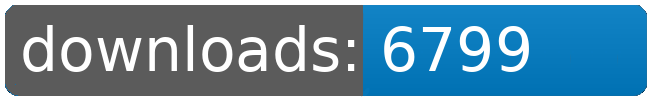
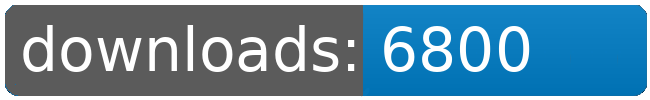
dl log written

Changed region(s): [[0.6462, 0.24, 0.8308, 0.72]]

diff --git a/README.md b/README.md
@@ -4,113 +4,113 @@
 <table>
 	<tr>
 		<td></td>
-		<td>2026-07-30</td>
 		<td>2026-07-31</td>
 		<td>2026-08-01</td>
 		<td>2026-08-02</td>
 		<td>2026-08-03</td>
 		<td>2026-08-04</td>
 		<td>2026-08-05</td>
+		<td>2026-08-06</td>
 		<td>today +</td>
 	</tr>
 	<tr>
 		<td>Bunsen.Burner</td>
-		<td>7802</td>
 		<td>7815</td>
 		<td>7830</td>
 		<td>7844</td>
 		<td>7854</td>
 		<td>7862</td>
 		<td>7883</td>
-		<td>+ 21</td>
+		<td>7883</td>
+		<td></td>
 	</tr>
 	<tr>
 		<td>Factory.Outlets</td>
-		<td>6892</td>
 		<td>6906</td>
 		<td>6922</td>
 		<td>6935</td>
 		<td>6943</td>
 		<td>6953</td>
 		<td>6974</td>
-		<td>+ 21</td>
+		<td>6974</td>
+		<td></td>
 	</tr>
 	<tr>
 		<td>Fundamental.Outfit.Expansion</td>
-		<td>8200</td>
 		<td>8217</td>
 		<td>8234</td>
 		<td>8249</td>
 		<td>8259</td>
 		<td>8270</td>
 		<td>8293</td>
-		<td>+ 23</td>
+		<td>8294</td>
+		<td>+ 1</td>
 	</tr>
 	<tr>
 		<td>Jaws</td>
-		<td>6721</td>
 		<td>6735</td>
 		<td>6750</td>
 		<td>6763</td>
 		<td>6770</td>
 		<td>6779</td>
 		<td>6799</td>
-		<td>+ 20</td>
+		<td>6800</td>
+		<td>+ 1</td>
 	</tr>
 	<tr>
 		<td>Korunak.Defense.Drones</td>
-		<td>6940</td>
 		<td>6954</td>
 		<td>6968</td>
 		<td>6981</td>
 		<td>6992</td>
 		<td>7002</td>
 		<td>7021</td>
-		<td>+ 19</td>
+		<td>7021</td>
+		<td></td>
 	</tr>
 	<tr>
 		<td>Louise.Conglomerate.Shipyards</td>
-		<td>7590</td>
 		<td>7605</td>
 		<td>7619</td>
 		<td>7633</td>
 		<td>7641</td>
 		<td>7653</td>
 		<td>7673</td>
-		<td>+ 20</td>
+		<td>7673</td>
+		<td></td>
 	</tr>
 	<tr>
 		<td>Sheragi.Rebirth.Redux</td>
-		<td>66</td>
 		<td>67</td>
 		<td>67</td>
 		<td>67</td>
 		<td>67</td>
+		<td>69</td>
 		<td>69</td>
 		<td>69</td>
 		<td></td>
 	</tr>
 	<tr>
 		<td>Solar.Sails</td>
-		<td>6842</td>
 		<td>6857</td>
 		<td>6871</td>
 		<td>6884</td>
 		<td>6894</td>
 		<td>6902</td>
 		<td>6921</td>
-		<td>+ 19</td>
+		<td>6921</td>
+		<td></td>
 	</tr>
 	<tr>
 		<td>Zone.of.Control</td>
-		<td>6664</td>
 		<td>6677</td>
 		<td>6691</td>
 		<td>6705</td>
 		<td>6712</td>
 		<td>6722</td>
 		<td>6743</td>
-		<td>+ 21</td>
+		<td>6743</td>
+		<td></td>
 	</tr>
 	<tr>
 		<td></td>
@@ -120,8 +120,8 @@
 		<td></td>
 		<td></td>
 		<td></td>
-		<td>58376</td>
-		<td>164</td>
+		<td>58378</td>
+		<td>2</td>
 	</tr>
 </table>
 </sub></sup>
@@ -129,110 +129,110 @@
 <table>
 	<tr>
 		<td></td>
-		<td>2026-07-30</td>
 		<td>2026-07-31</td>
 		<td>2026-08-01</td>
 		<td>2026-08-02</td>
 		<td>2026-08-03</td>
 		<td>2026-08-04</td>
 		<td>2026-08-05</td>
+		<td>2026-08-06</td>
 		<td>today +</td>
 	</tr>
 	<tr>
 		<td>Fundamental.Outfit.Expansion</td>
-		<td>8200</td>
 		<td>8217</td>
 		<td>8234</td>
 		<td>8249</td>
 		<td>8259</td>
 		<td>8270</td>
 		<td>8293</td>
-		<td>+ 23</td>
+		<td>8294</td>
+		<td>+ 1</td>
 	</tr>
 	<tr>
 		<td>Bunsen.Burner</td>
-		<td>7802</td>
 		<td>7815</td>
 		<td>7830</td>
 		<td>7844</td>
 		<td>7854</td>
 		<td>7862</td>
 		<td>7883</td>
-		<td>+ 21</td>
+		<td>7883</td>
+		<td></td>
 	</tr>
 	<tr>
 		<td>Louise.Conglomerate.Shipyards</td>
-		<td>7590</td>
 		<td>7605</td>
 		<td>7619</td>
 		<td>7633</td>
 		<td>7641</td>
 		<td>7653</td>
 		<td>7673</td>
-		<td>+ 20</td>
+		<td>7673</td>
+		<td></td>
 	</tr>
 	<tr>
 		<td>Korunak.Defense.Drones</td>
-		<td>6940</td>
 		<td>6954</td>
 		<td>6968</td>
 		<td>6981</td>
 		<td>6992</td>
 		<td>7002</td>
 		<td>7021</td>
-		<td>+ 19</td>
+		<td>7021</td>
+		<td></td>
 	</tr>
 	<tr>
 		<td>Factory.Outlets</td>
-		<td>6892</td>
 		<td>6906</td>
 		<td>6922</td>
 		<td>6935</td>
 		<td>6943</td>
 		<td>6953</td>
 		<td>6974</td>
-		<td>+ 21</td>
+		<td>6974</td>
+		<td></td>
 	</tr>
 	<tr>
 		<td>Solar.Sails</td>
-		<td>6842</td>
 		<td>6857</td>
 		<td>6871</td>
 		<td>6884</td>
 		<td>6894</td>
 		<td>6902</td>
 		<td>6921</td>
-		<td>+ 19</td>
+		<td>6921</td>
+		<td></td>
 	</tr>
 	<tr>
 		<td>Jaws</td>
-		<td>6721</td>
 		<td>6735</td>
 		<td>6750</td>
 		<td>6763</td>
 		<td>6770</td>
 		<td>6779</td>
 		<td>6799</td>
-		<td>+ 20</td>
+		<td>6800</td>
+		<td>+ 1</td>
 	</tr>
 	<tr>
 		<td>Zone.of.Control</td>
-		<td>6664</td>
 		<td>6677</td>
 		<td>6691</td>
 		<td>6705</td>
 		<td>6712</td>
 		<td>6722</td>
 		<td>6743</td>
-		<td>+ 21</td>
+		<td>6743</td>
+		<td></td>
 	</tr>
 	<tr>
 		<td>Sheragi.Rebirth.Redux</td>
-		<td>66</td>
 		<td>67</td>
 		<td>67</td>
 		<td>67</td>
 		<td>67</td>
+		<td>69</td>
 		<td>69</td>
 		<td>69</td>
 		<td></td>
@@ -245,8 +245,8 @@
 		<td></td>
 		<td></td>
 		<td></td>
-		<td>58376</td>
-		<td>164</td>
+		<td>58378</td>
+		<td>2</td>
 	</tr>
 </table>
 </sub></sup>
@@ -313,9 +313,9 @@
 		<td></td>
 	</tr>
 	<tr>
-		<td>296</td>
-		<td>21.25</td>
-		<td>6.53</td>
+		<td>297</td>
+		<td>21.18</td>
+		<td>6.51</td>
 		<td></td>
 		<td></td>
 	</tr>
